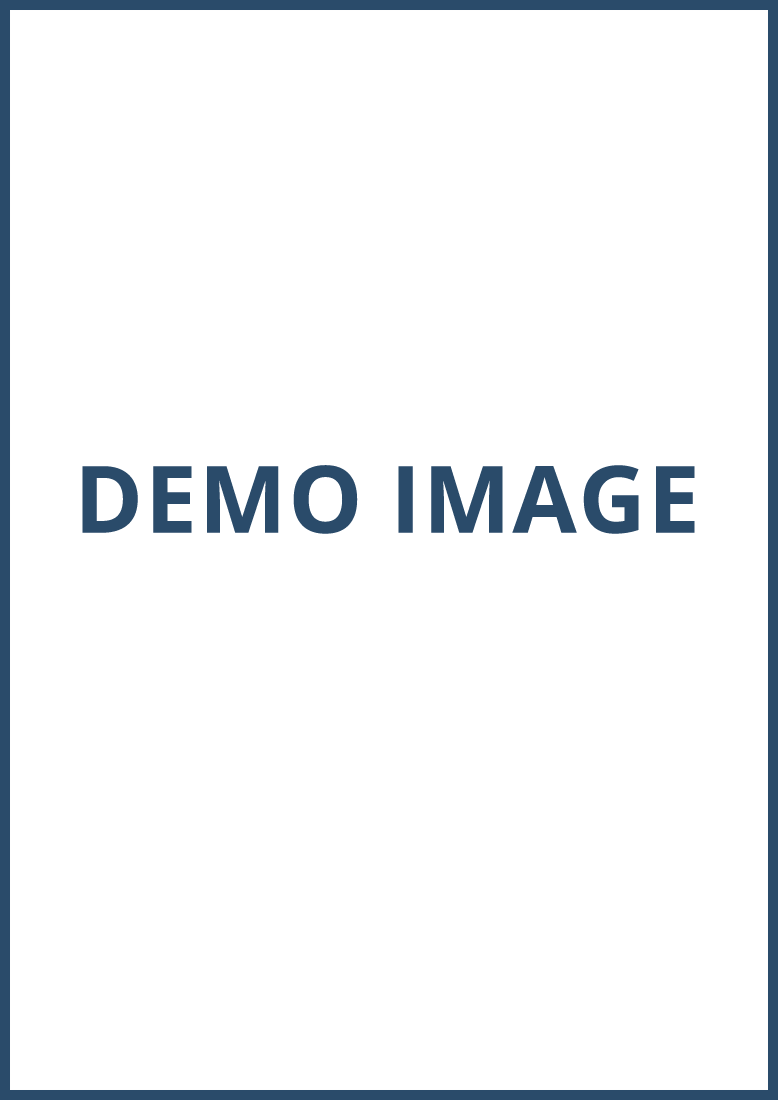
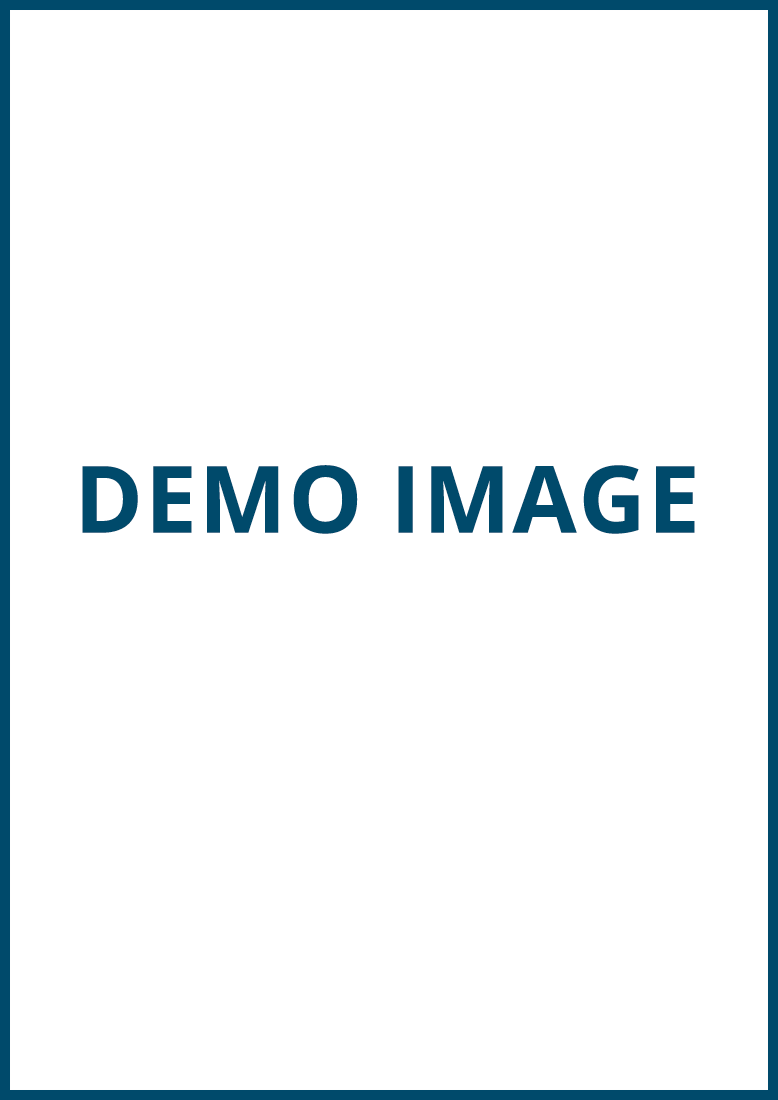
Add image

Changed region(s): [[0.0, 0.0, 1.0, 1.0], [0.4936, 0.4018, 0.8946, 0.4945], [0.0925, 0.4018, 0.4627, 0.4945]]

diff --git a/index.html b/index.html
@@ -15,7 +15,7 @@
   z-index:9999;
   padding:20px;
   text-align: center;
-	background-image: url(Inauguracion.jpg);
+	background-image: url(demo_img.png);
 	background-size: 440px;
 	background-repeat: no-repeat;
 }
@@ -97,3 +97,5 @@ $(document).ready(function() {
 
 });
 </script>
+
+
